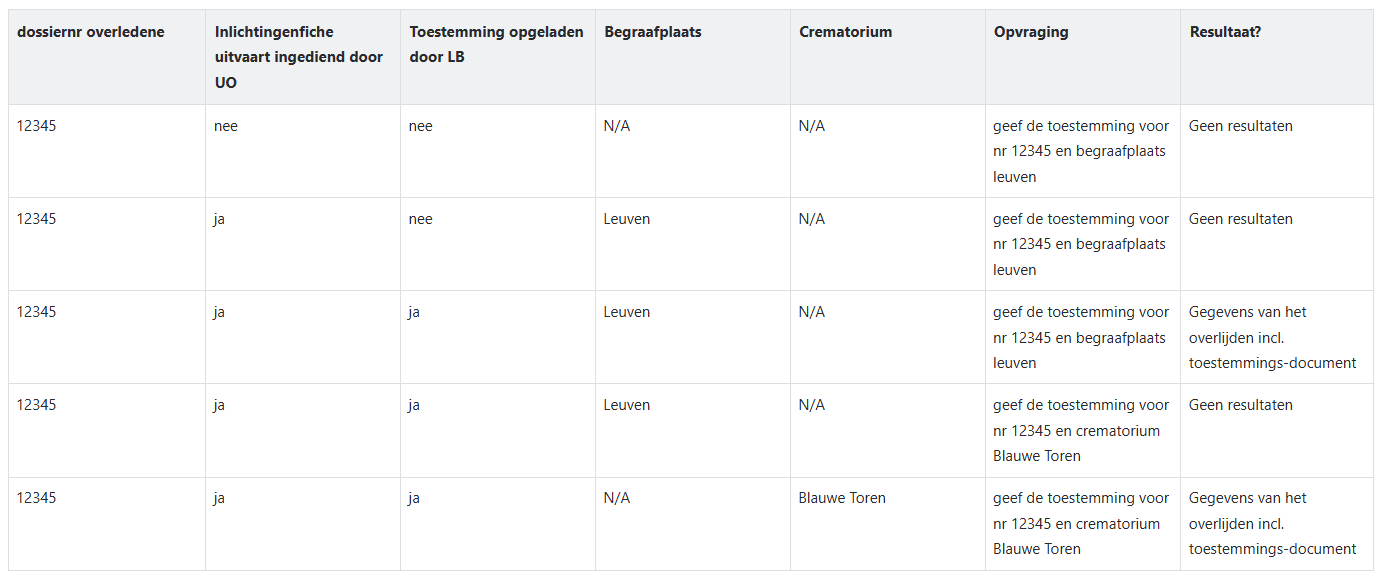
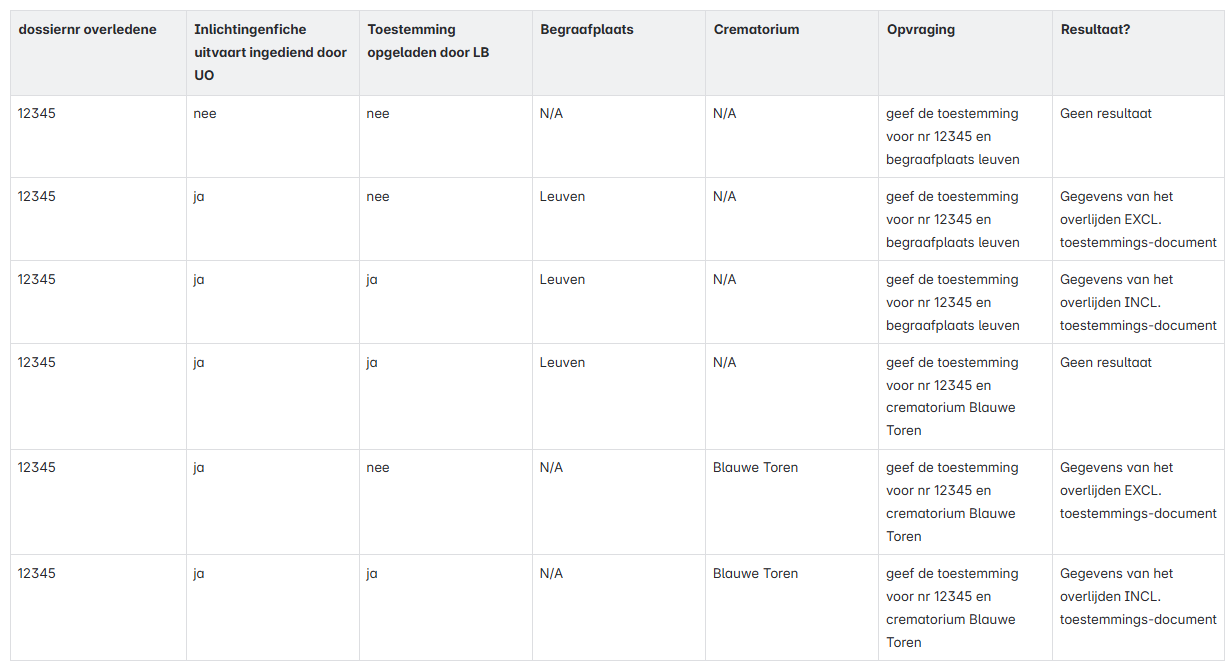
update naar nieuwe werking

diff --git a/crematorium/doc/api/beschrijving.md b/crematorium/doc/api/beschrijving.md
@@ -21,7 +21,7 @@ Dit zou gebruikt kunnen worden om te valideren of voor elk van deze toestemminge
 ### Architectuur
 
 - Scope: elys_crematorium
-- Crematoria kunnen voor een overlijden gegevens opvragen vanaf dat er een toestemming tot crematie is opgeladen
+- Crematoria kunnen voor een overlijden gegevens opvragen vanaf dat er een toestemming tot crematie is aangevraagd, dus wanneer een inlichtingenfiche is ingevuld.
 - De gegevens van een overlijden kunnen specifiek voor één overlijden worden opgevraagd
     - Op dossiernummer 
 - Er kan ook een lijst met gegevens van verschillende overlijdens worden opgevraagd
